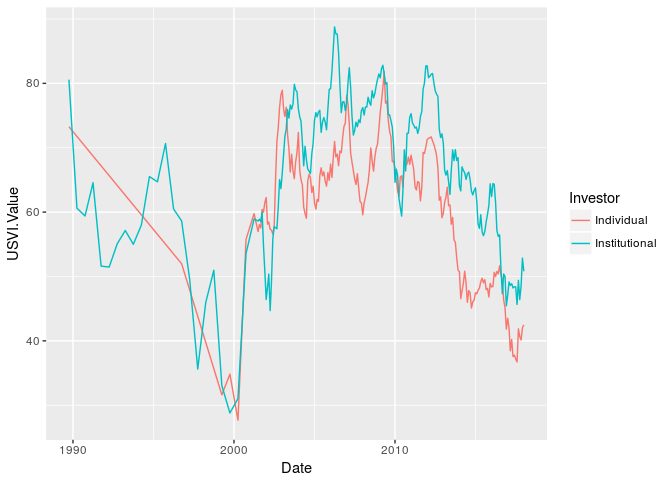
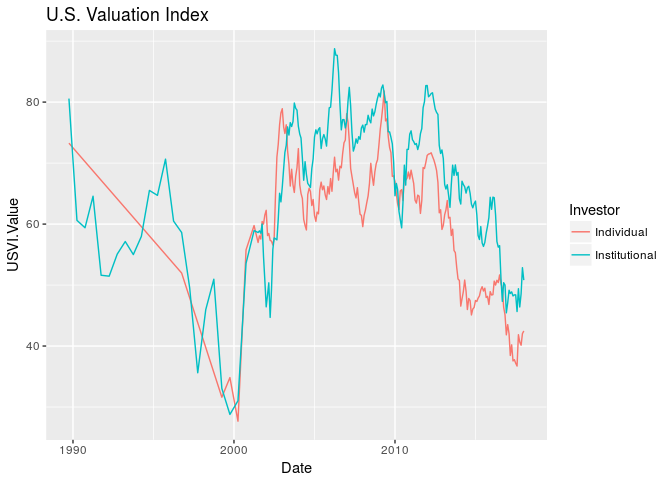
vignette

diff --git a/README.md b/README.md
@@ -33,9 +33,9 @@ kable(US_confidence_indices())
 | Symbol | Description                       | Url                                                                                                                                                                       |
 |:-------|:----------------------------------|:--------------------------------------------------------------------------------------------------------------------------------------------------------------------------|
 | US1YI  | U.S. One Year Index               | <https://som.yale.edu/faculty-research/our-centers-initiatives/international-center-finance/data/stock-market-confidence-indices/united-states-one-year-index>            |
-| USVI   | U.S. Crash Confidence Index       | <https://som.yale.edu/faculty-research/our-centers-initiatives/international-center-finance/data/stock-market-confidence-indices/united-states-valuation-index>           |
+| USVI   | U.S. Valuation Index              | <https://som.yale.edu/faculty-research/our-centers-initiatives/international-center-finance/data/stock-market-confidence-indices/united-states-valuation-index>           |
 | USBODI | U.S. Buy-On-Dips Confidence Index | <https://som.yale.edu/faculty-research/our-centers-initiatives/international-center-finance/data/stock-market-confidence-indices/united-states-buy-dips-confidence-index> |
-| USCI   | U.S. Valuation Index              | <https://som.yale.edu/faculty-research/our-centers-initiatives/international-center-finance/data/stock-market-confidence-indices/us-crash-confidence-index>               |
+| USCI   | U.S. Crash Confidence Index       | <https://som.yale.edu/faculty-research/our-centers-initiatives/international-center-finance/data/stock-market-confidence-indices/us-crash-confidence-index>               |
 
 ### Plotting
 
@@ -44,10 +44,12 @@ This is a basic example which plots **U.S. Valuation Index**:
 ``` r
 library(ggplot2)
 
-index_df <- get_index("USVI")
+index_symbol <- "USVI"
+index_df <- get_index(index_symbol)
 
 ggplot(index_df, aes(x = Date, y = USVI.Value, color = Investor)) +
-  geom_line()
+  geom_line() +
+  ggtitle(get_index_description(index_symbol))
 ```
 
 ![](README-example-1.png)
